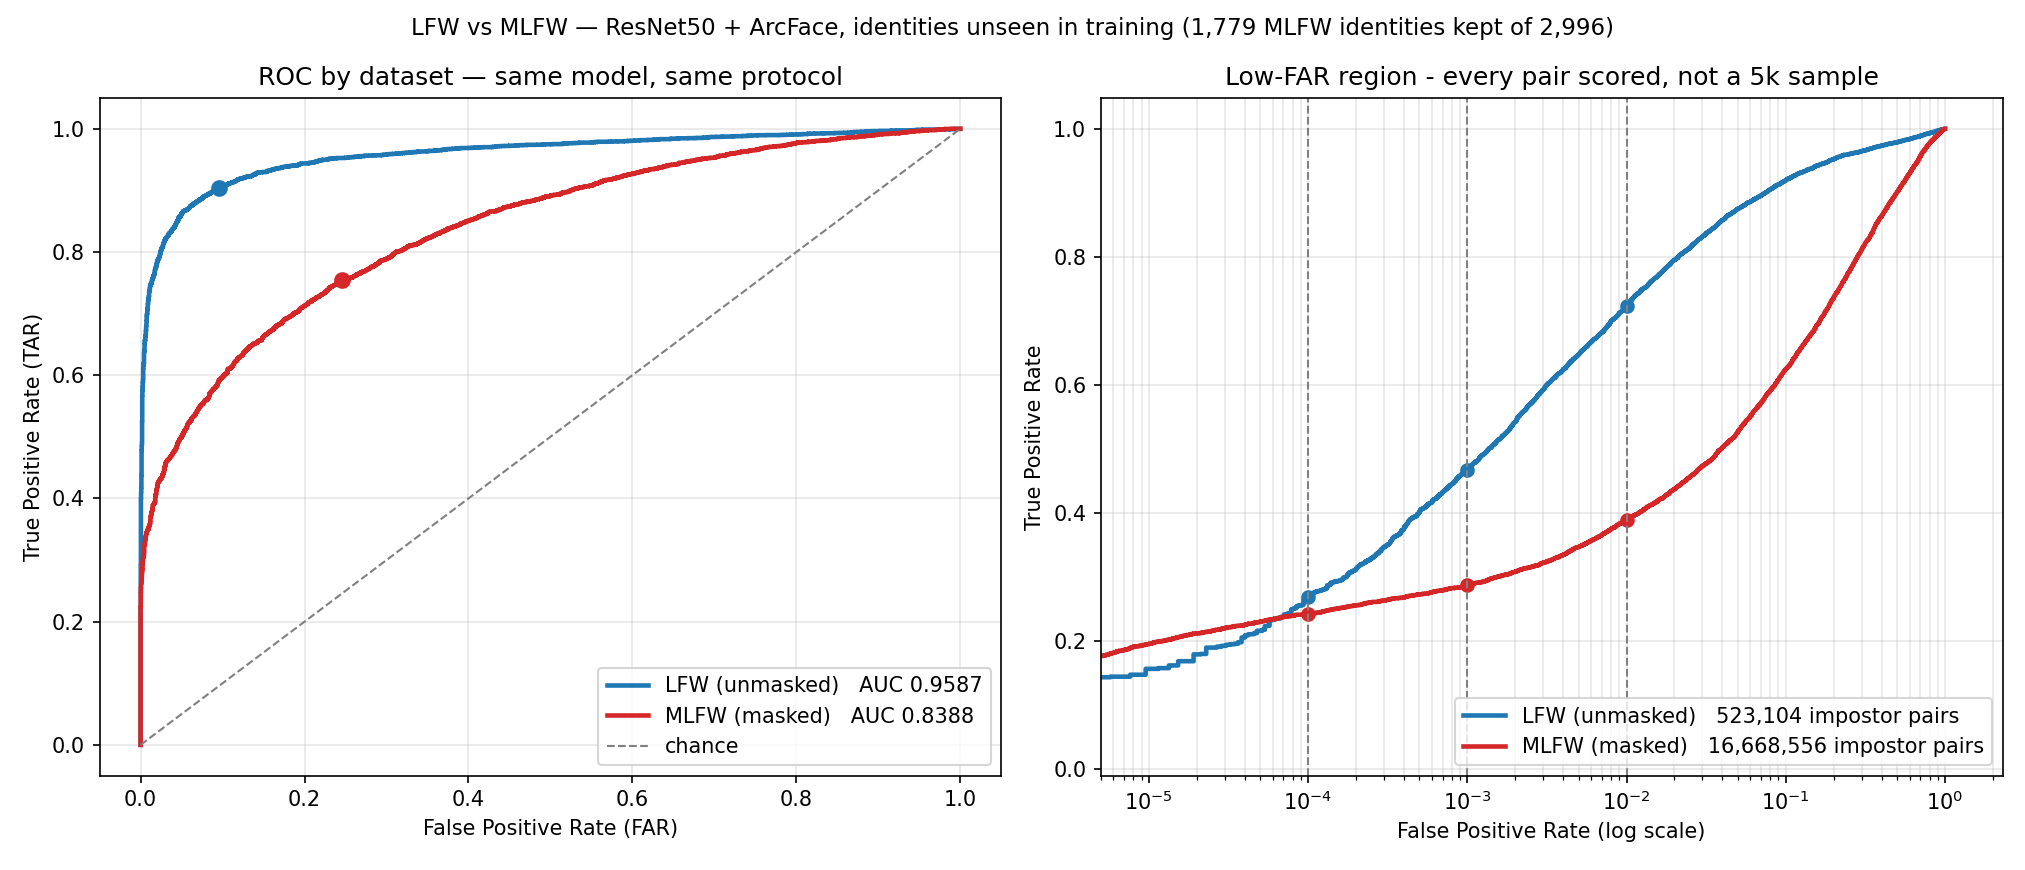
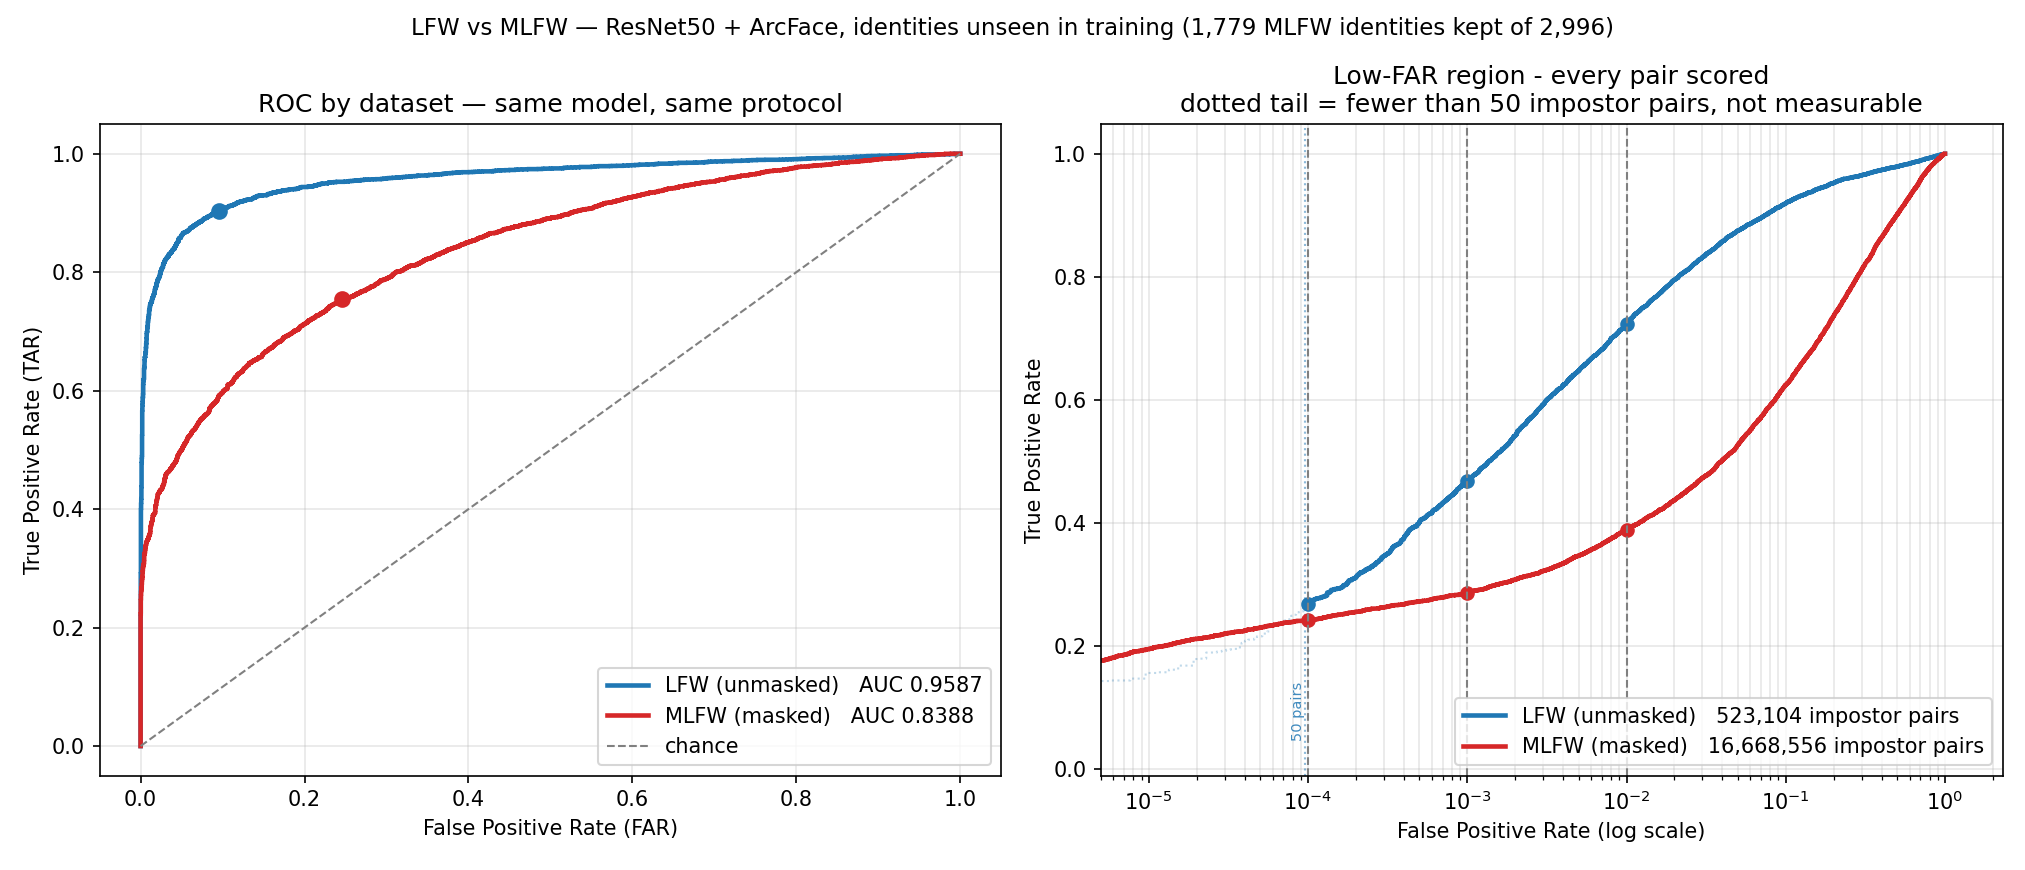
Mark the under-resolved tail of each ROC curve

diff --git a/submission/dataset_roc.py b/submission/dataset_roc.py
@@ -193,17 +193,26 @@ def main():
         ax[0].plot(m["eer"], 1 - m["eer"], "o", color=colour, ms=7)
 
 
+    MIN_PAIRS = 50          # below this many impostor pairs a point is noise
     for name, m, colour in [("LFW (unmasked)", m_lfw_all or m_lfw, "#1f77b4"),
                             ("MLFW (masked)", m_mlfw_all or m_mlfw, "#d62728")]:
         fpr = np.array(m["roc_curve"]["fpr"])
         tpr = np.array(m["roc_curve"]["tpr"])
-        keep = fpr > 0
         n_imp = m["num_impostor"]
-        ax[1].semilogx(fpr[keep], tpr[keep], lw=2.2, color=colour,
+        floor = MIN_PAIRS / n_imp     # FAR below which too few pairs support the curve
+
+        solid = (fpr >= floor)
+        thin = (fpr > 0) & (fpr <= floor)
+        ax[1].semilogx(fpr[solid], tpr[solid], lw=2.2, color=colour,
                        label=f"{name}   {n_imp:,} impostor pairs")
+        # the under-resolved tail is drawn faint so it cannot be read as signal
+        ax[1].semilogx(fpr[thin], tpr[thin], lw=1.0, color=colour, alpha=0.28, ls=":")
+        ax[1].axvline(floor, color=colour, lw=1, alpha=0.5, ls=":")
+        ax[1].annotate(f"{MIN_PAIRS} pairs", (floor, 0.045), color=colour, fontsize=7,
+                       rotation=90, ha="right", va="bottom", alpha=0.85)
         for far in (1e-4, 1e-3, 1e-2):
             ok = np.where(fpr <= far)[0]
-            if ok.size:
+            if ok.size and far >= floor:
                 ax[1].plot(far, tpr[ok[-1]], "o", color=colour, ms=6)
 
     ax[0].plot([0, 1], [0, 1], "--", color="grey", lw=1, label="chance")
@@ -218,7 +227,7 @@ def main():
     ax[1].set_xlim(left=5e-6)
     ax[1].set_xlabel("False Positive Rate (log scale)")
     ax[1].set_ylabel("True Positive Rate")
-    ax[1].set_title("Low-FAR region - every pair scored, not a 5k sample")
+    ax[1].set_title("Low-FAR region - every pair scored\ndotted tail = fewer than 50 impostor pairs, not measurable")
     ax[1].legend(loc="lower right")
     ax[1].grid(alpha=0.3, which="both")
 

diff --git a/submission/README.md b/submission/README.md
@@ -426,10 +426,13 @@ sample cannot resolve a FAR below 1/5000:
 | LFW | 530,965 | 523,104 | 0.9638 | 8.81% | 72.37% | 46.76% |
 | MLFW | 16,678,200 | 16,668,556 | 0.8502 | 23.46% | 38.91% | 28.67% |
 
-Below FAR ≈ 10⁻⁴ the LFW curve is itself under-resolved — 523k impostor pairs put
-its floor at 1.9×10⁻⁶, against 6×10⁻⁸ for MLFW's 16.7M — so the two curves
-converging in the far-left tail is a sampling artefact rather than masked faces
-catching up.
+The two datasets do not have equal resolution: 523k impostor pairs put LFW's
+floor at 1.9×10⁻⁶, against 6×10⁻⁸ for MLFW's 16.7M. Each curve in the low-FAR
+panel is therefore drawn **solid only where at least 50 impostor pairs support
+it** and faint-dotted below, with the boundary marked. Left of LFW's marker at
+FAR ≈ 10⁻⁴ the blue curve appears to be overtaken by the masked one; that is the
+sampling floor, not masked faces catching up. Across the whole measurable range
+the unmasked curve stays above the masked one, as it should.
 
 ![LFW vs MLFW](results/dataset_roc_lfw_vs_mlfw.png)
 
